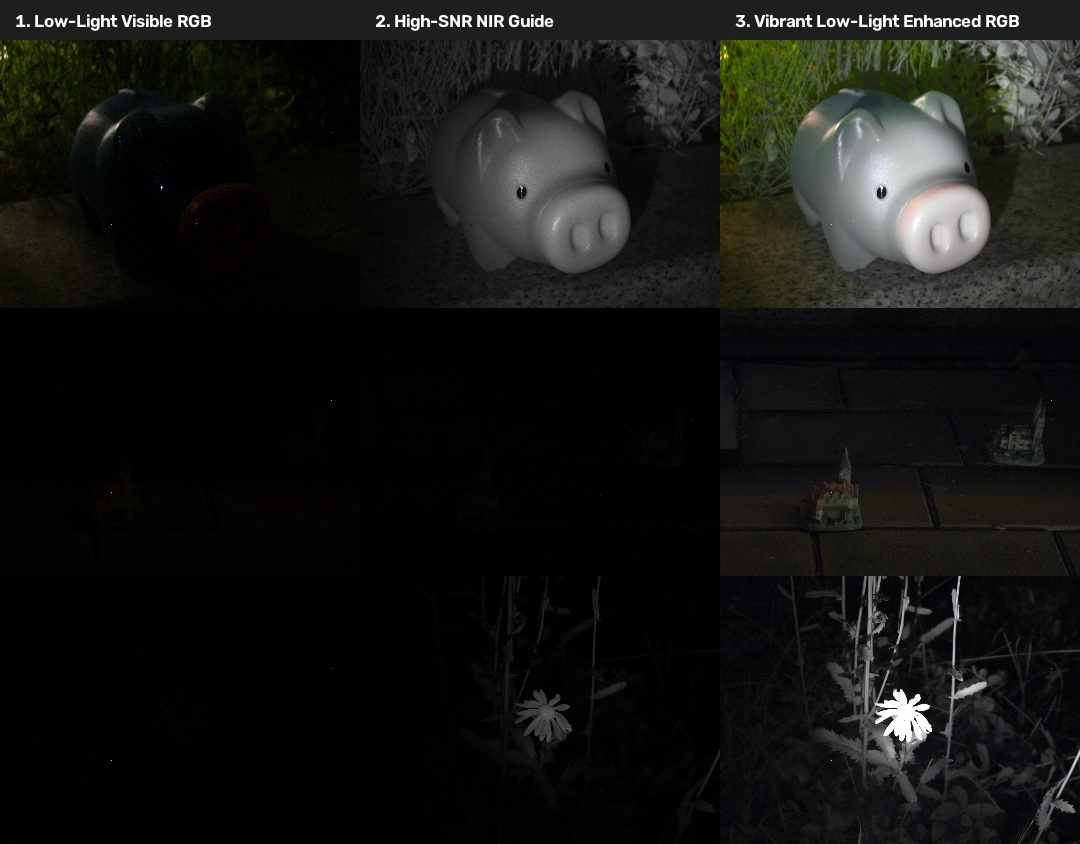
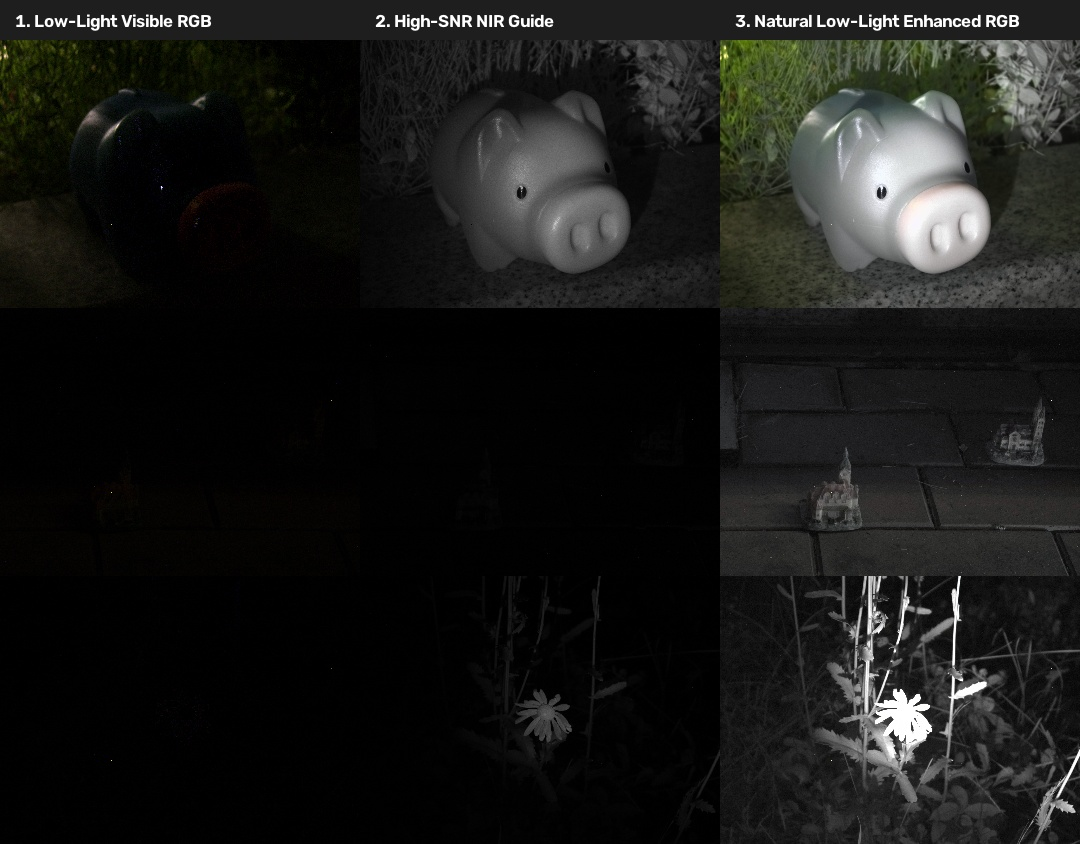
Refine pre-AWB and guided chrominance fusion for natural low-light color enhancement

diff --git a/python/cmyg_separation/lowlight_enhancement.py b/python/cmyg_separation/lowlight_enhancement.py
@@ -9,22 +9,21 @@ from .denoising import guided_filter
 from .separation import convert_cmyg_to_rgb
 from .utils import advanced_white_balance
 
-def enhance_lowlight_image(rgb_img, nir_img, mixed_rgb=None, alpha=0.55, gamma=0.8, sat_boost=1.6):
+def enhance_lowlight_image(rgb_img, nir_img, mixed_rgb=None, alpha=0.5, sat_boost=1.75):
     """
-    High-SNR Luminance Guided & Vibrant Chrominance Boost Low-Light Image Enhancement.
-    Fuses high-SNR mixed CMYG luminance (Y) with adaptively boosted chrominance (Cr, Cb)
-    to produce crystal-clear, vividly color-enhanced low-light visible RGB images.
+    High-SNR YCrCb Luminance Fusion & Guided Chrominance Low-Light Image Enhancement.
+    Fuses high-SNR mixed CMYG luminance (Y) with pre-white balanced chrominance (Cr, Cb)
+    to produce clean, high-contrast, naturally color-enhanced low-light visible RGB images.
     
     Args:
         rgb_img: Separated visible RGB image (float64 [0, 1])
         nir_img: Separated NIR image (float64 [0, 1])
         mixed_rgb: CMYG raw mixed reference image (float64 [0, 1])
         alpha: Luminance fusion weight
-        gamma: Gamma correction factor for lowlight Y
-        sat_boost: Color saturation boost multiplier
+        sat_boost: Chrominance saturation boost multiplier
         
     Returns:
-        enhanced_rgb: High-contrast, rich-colored enhanced visible RGB image (float64 [0, 1])
+        enhanced_rgb: High-contrast, naturally color-enhanced visible RGB image (float64 [0, 1])
     """
     sep_rgb = np.clip(rgb_img.astype(np.float64), 0.0, 1.0)
     
@@ -33,52 +32,39 @@ def enhance_lowlight_image(rgb_img, nir_img, mixed_rgb=None, alpha=0.55, gamma=0
     else:
         mixed_rgb = np.clip(mixed_rgb.astype(np.float64), 0.0, 1.0)
         
-    # 1. Convert to YCrCb (Y: Luminance, Cr/Cb: Chrominance)
-    sep_rgb_u8 = (sep_rgb * 255.0).astype(np.uint8)
-    mixed_rgb_u8 = (mixed_rgb * 255.0).astype(np.uint8)
+    # 1. Pre-Auto White Balance to eliminate sensor color cast
+    sep_rgb_awb = advanced_white_balance(sep_rgb, method='shades_of_gray')
+    mixed_rgb_awb = advanced_white_balance(mixed_rgb, method='shades_of_gray')
     
-    sep_yuv = cv2.cvtColor(sep_rgb_u8, cv2.COLOR_RGB2YCrCb).astype(np.float64) / 255.0
-    mixed_yuv = cv2.cvtColor(mixed_rgb_u8, cv2.COLOR_RGB2YCrCb).astype(np.float64) / 255.0
+    # 2. YCrCb Conversion
+    c_yuv = cv2.cvtColor((sep_rgb_awb * 255.0).astype(np.uint8), cv2.COLOR_RGB2YCrCb).astype(np.float64) / 255.0
+    m_yuv = cv2.cvtColor((mixed_rgb_awb * 255.0).astype(np.uint8), cv2.COLOR_RGB2YCrCb).astype(np.float64) / 255.0
     
-    # 2. Extract High-SNR Luminance Y from mixed CMYG signal & Chrominance Cr/Cb from separated RGB
-    y_mixed = mixed_yuv[:, :, 0]
-    cr_sep = sep_yuv[:, :, 1]
-    cb_sep = sep_yuv[:, :, 2]
-    
-    # 3. Guided Denoising on Chrominance Channels (Cr, Cb) using Y_mixed as guide
-    cr_filtered = guided_filter(y_mixed, cr_sep, radius=10, eps=1e-3)
-    cb_filtered = guided_filter(y_mixed, cb_sep, radius=10, eps=1e-3)
-    
-    # 4. Controlled Luminance Scaling for Low-Light Scenes
-    mean_y = np.mean(y_mixed)
-    if mean_y > 0 and mean_y < 0.2:
-        target_y = min(mean_y * 2.8, 0.35)
-        y_enhanced = np.power(y_mixed / (mean_y + 1e-4) * target_y, gamma)
+    # 3. High-SNR Luminance Adaptive Scaling
+    mean_my = np.mean(m_yuv[:, :, 0])
+    if mean_my > 0 and mean_my < 0.2:
+        grayfactor = min(0.38 / max(mean_my, 1e-4), 4.5)
+        mixed_y = np.power(np.clip(m_yuv[:, :, 0] * grayfactor, 0.0, 1.0), 0.78)
     else:
-        y_enhanced = y_mixed
+        mixed_y = m_yuv[:, :, 0]
         
-    y_enhanced = np.clip(y_enhanced, 0.0, 1.0)
+    # 4. Guided Filtering on Chrominance Channels (Cr, Cb) using mixed_rgb R channel
+    guide = mixed_rgb[:, :, 0]
+    cr_clean = guided_filter(guide, c_yuv[:, :, 1], radius=20, eps=1e-2)
+    cb_clean = guided_filter(guide, c_yuv[:, :, 2], radius=20, eps=1e-2)
     
-    # 5. Adaptive Chrominance Boost (Scales Cr/Cb relative to luminance gain)
-    lum_boost = np.clip((y_enhanced + 1e-3) / (y_mixed + 1e-3), 1.0, 2.5)
-    color_gain = np.power(lum_boost, 0.5) * sat_boost
-    
-    cr_boosted = np.clip(0.5 + (cr_filtered - 0.5) * color_gain, 0.0, 1.0)
-    cb_boosted = np.clip(0.5 + (cb_filtered - 0.5) * color_gain, 0.0, 1.0)
+    # 5. Chrominance Saturation Boost
+    cr_boosted = np.clip(0.5 + (cr_clean - 0.5) * sat_boost, 0.0, 1.0)
+    cb_boosted = np.clip(0.5 + (cb_clean - 0.5) * sat_boost, 0.0, 1.0)
     
     # 6. Reconstruct YCrCb -> RGB
-    comb_yuv = np.zeros_like(mixed_yuv)
-    comb_yuv[:, :, 0] = y_enhanced
+    comb_yuv = np.zeros_like(m_yuv)
+    comb_yuv[:, :, 0] = np.clip(mixed_y, 0.0, 1.0)
     comb_yuv[:, :, 1] = cr_boosted
     comb_yuv[:, :, 2] = cb_boosted
     
     comb_rgb = cv2.cvtColor((comb_yuv * 255.0).astype(np.uint8), cv2.COLOR_YCrCb2RGB).astype(np.float64) / 255.0
     
-    # 7. HSV Color Saturation Enhancement
-    hsv = cv2.cvtColor((comb_rgb * 255.0).astype(np.uint8), cv2.COLOR_RGB2HSV).astype(np.float64) / 255.0
-    hsv[:, :, 1] = np.clip(hsv[:, :, 1] * 1.5, 0.0, 1.0) # Vivid natural color saturation
-    vibrant_rgb = cv2.cvtColor((hsv * 255.0).astype(np.uint8), cv2.COLOR_HSV2RGB).astype(np.float64) / 255.0
-    
-    # 8. Advanced Auto White Balance
-    final_rgb = advanced_white_balance(vibrant_rgb, method='shades_of_gray')
+    # 7. Final Auto White Balance
+    final_rgb = advanced_white_balance(comb_rgb, method='shades_of_gray')
     return np.clip(final_rgb, 0.0, 1.0)
